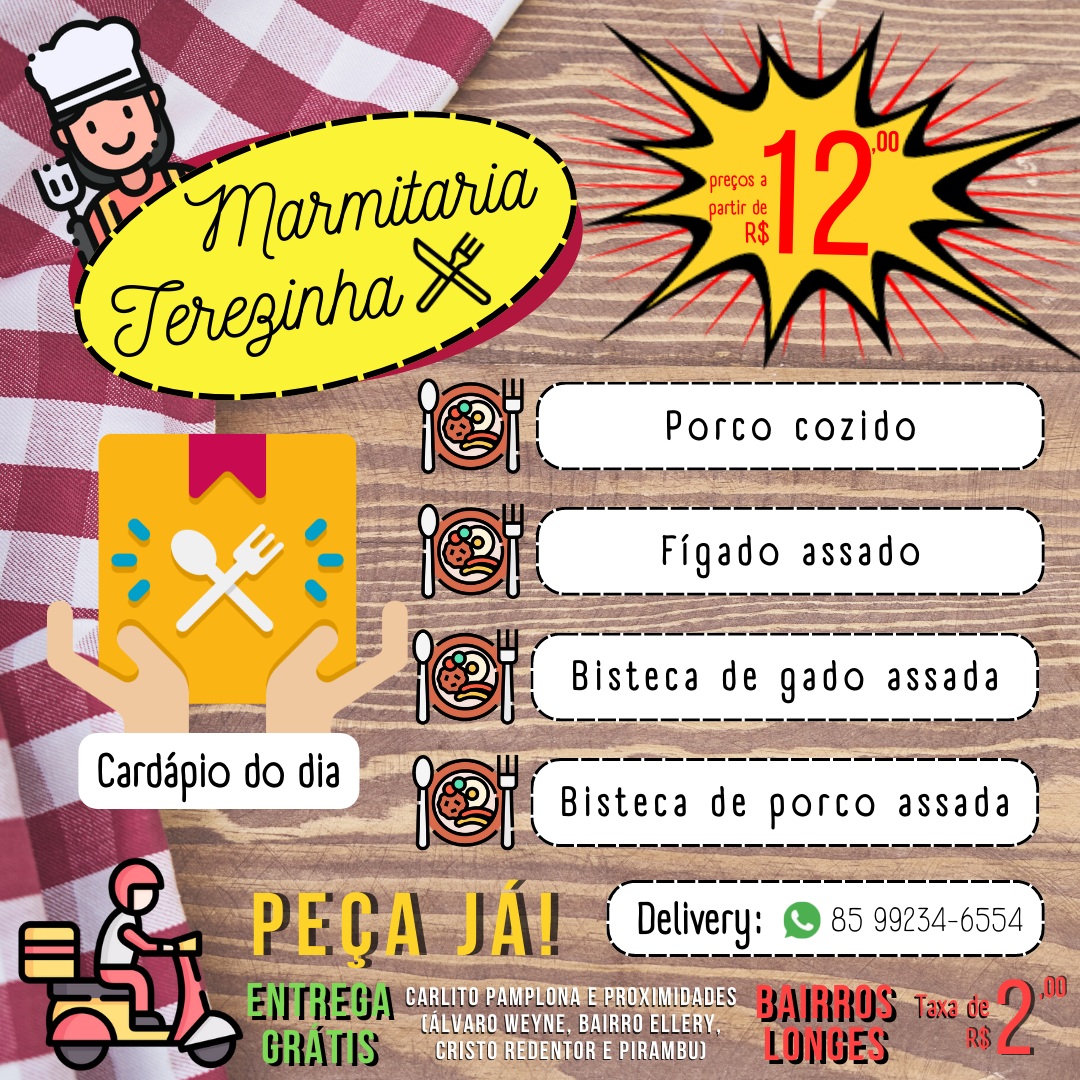
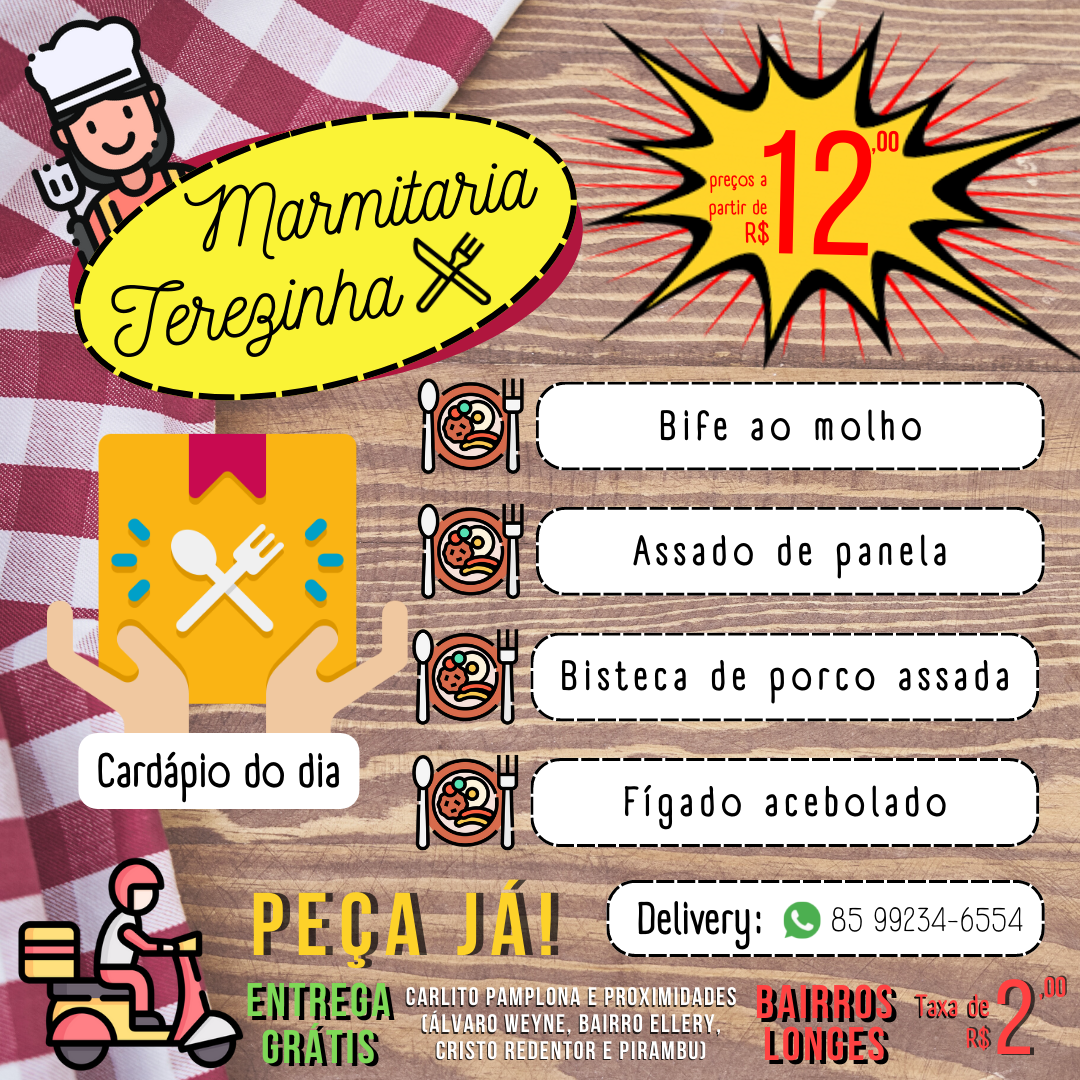
Atualização do cardápio do dia

diff --git a/assets/scripts/changeMenu.js b/assets/scripts/changeMenu.js
@@ -33,10 +33,10 @@ switch (weekday) {
     break
   case 2:
     console.log('Hoje é terça-feira!')
-    meal01.textContent = 'Porco cozido'
-    meal02.textContent = 'Fígado assado'
-    meal03.textContent = 'Bisteca de gado assada'
-    meal04.textContent = 'Bisteca de porco assada'
+    meal01.textContent = 'Bife ao molho'
+    meal02.textContent = 'Assado de panela'
+    meal03.textContent = 'Bisteca de porco assada'
+    meal04.textContent = 'Fígado acebolado'
     hasImage('./assets/img/menu/menuTer.png', 'Terça-feira | Marmitaria Terezinha')
     break
   case 3:
